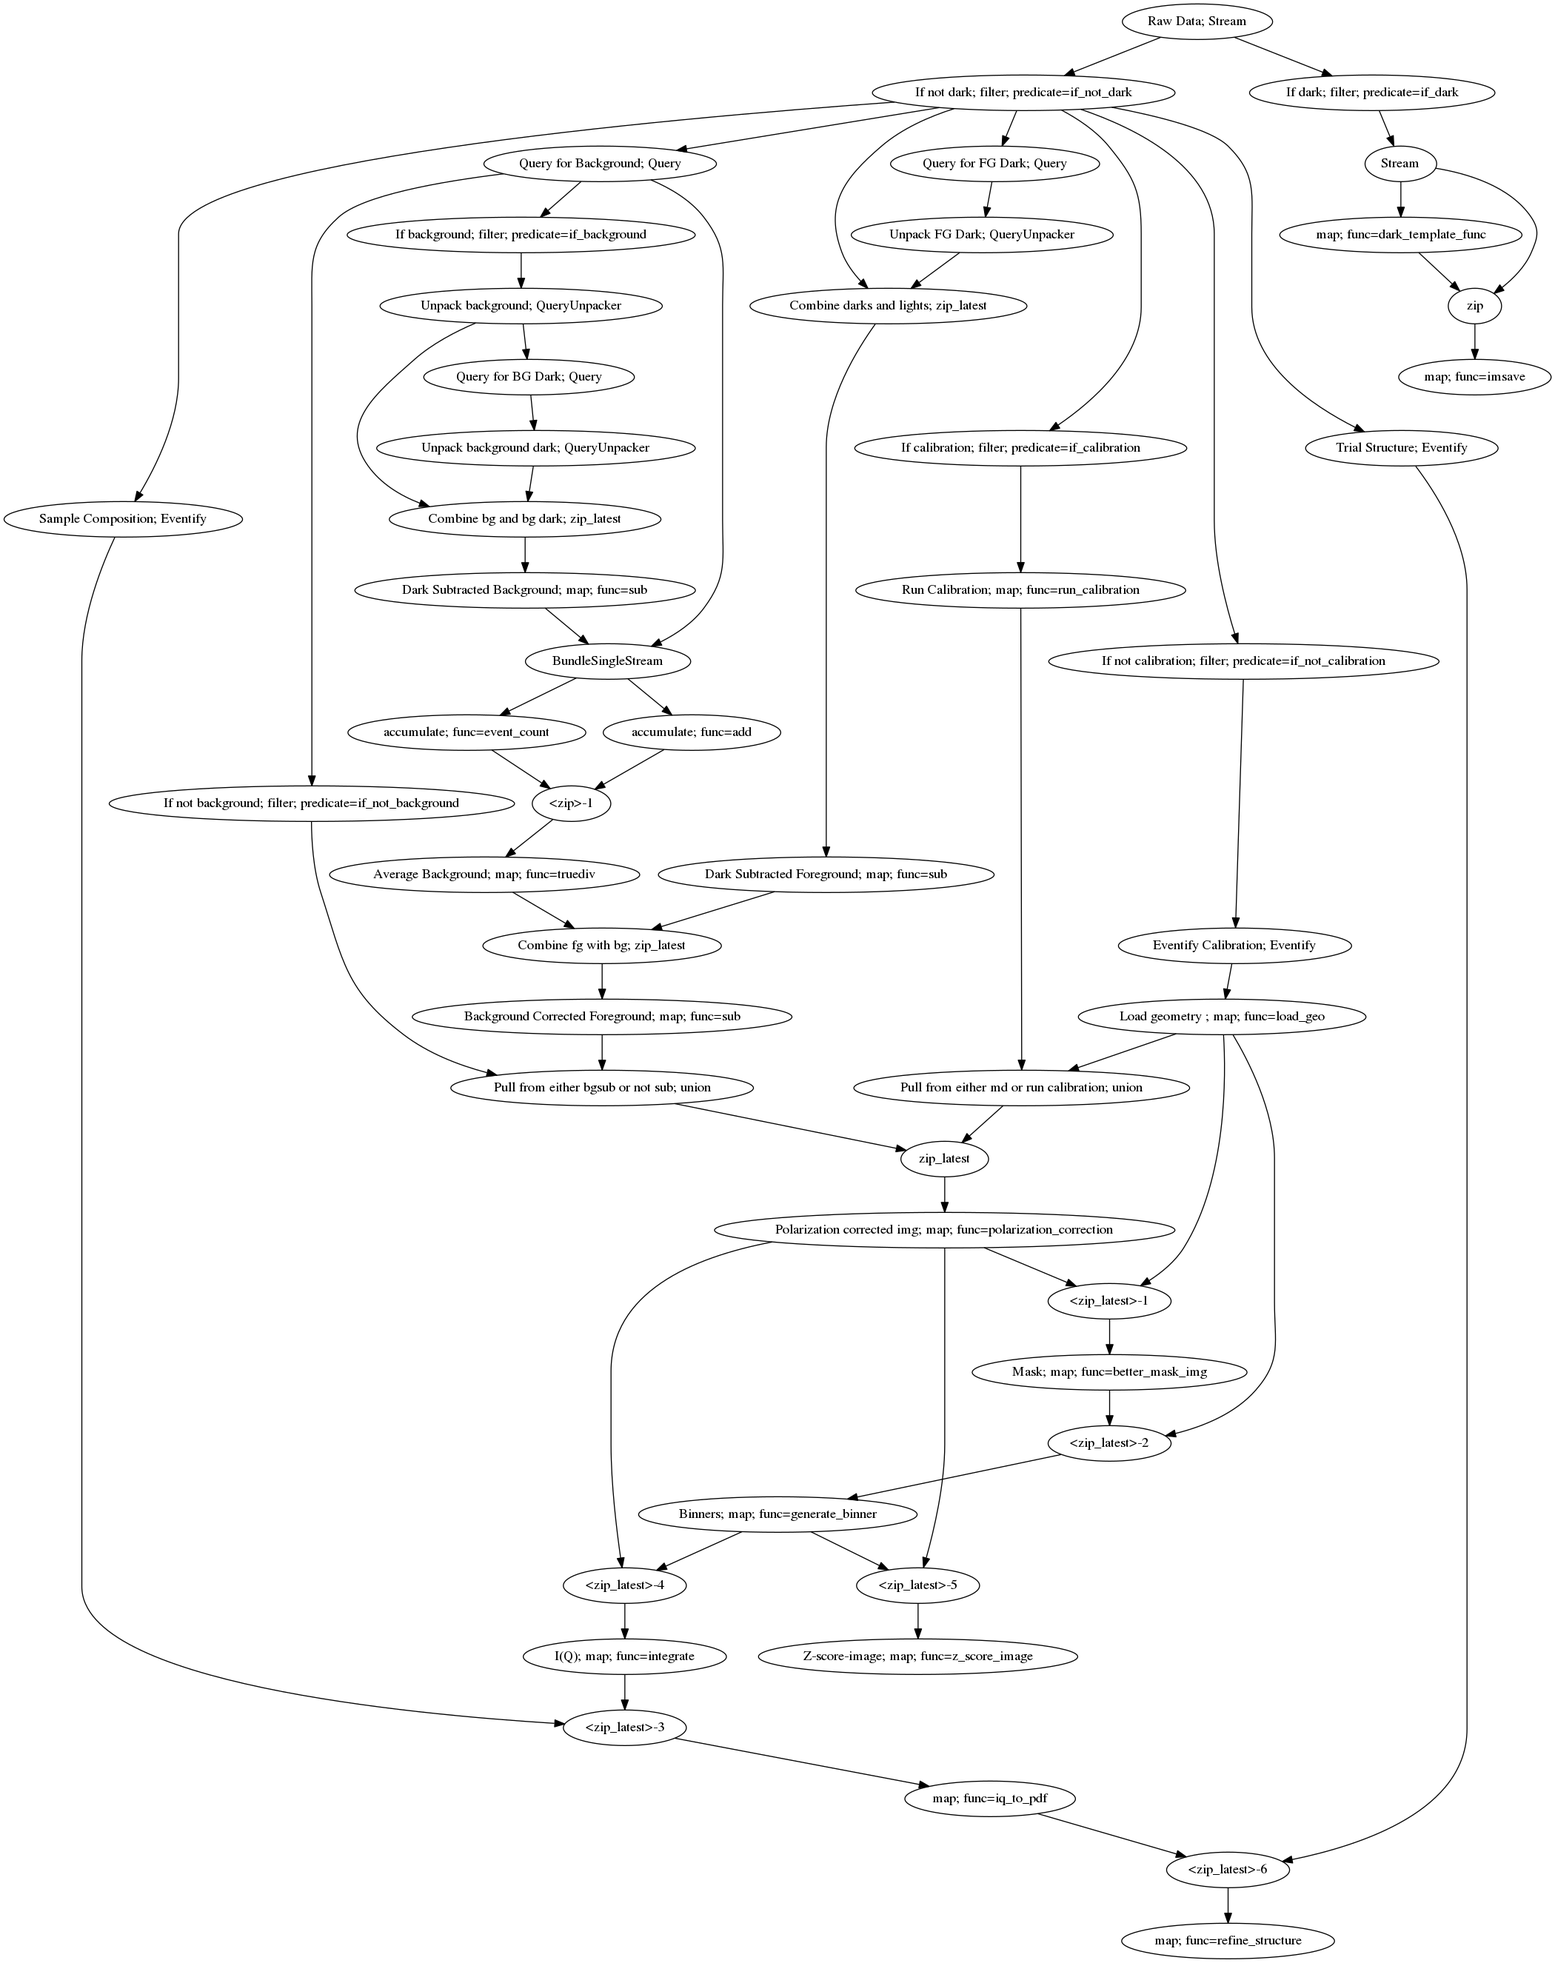
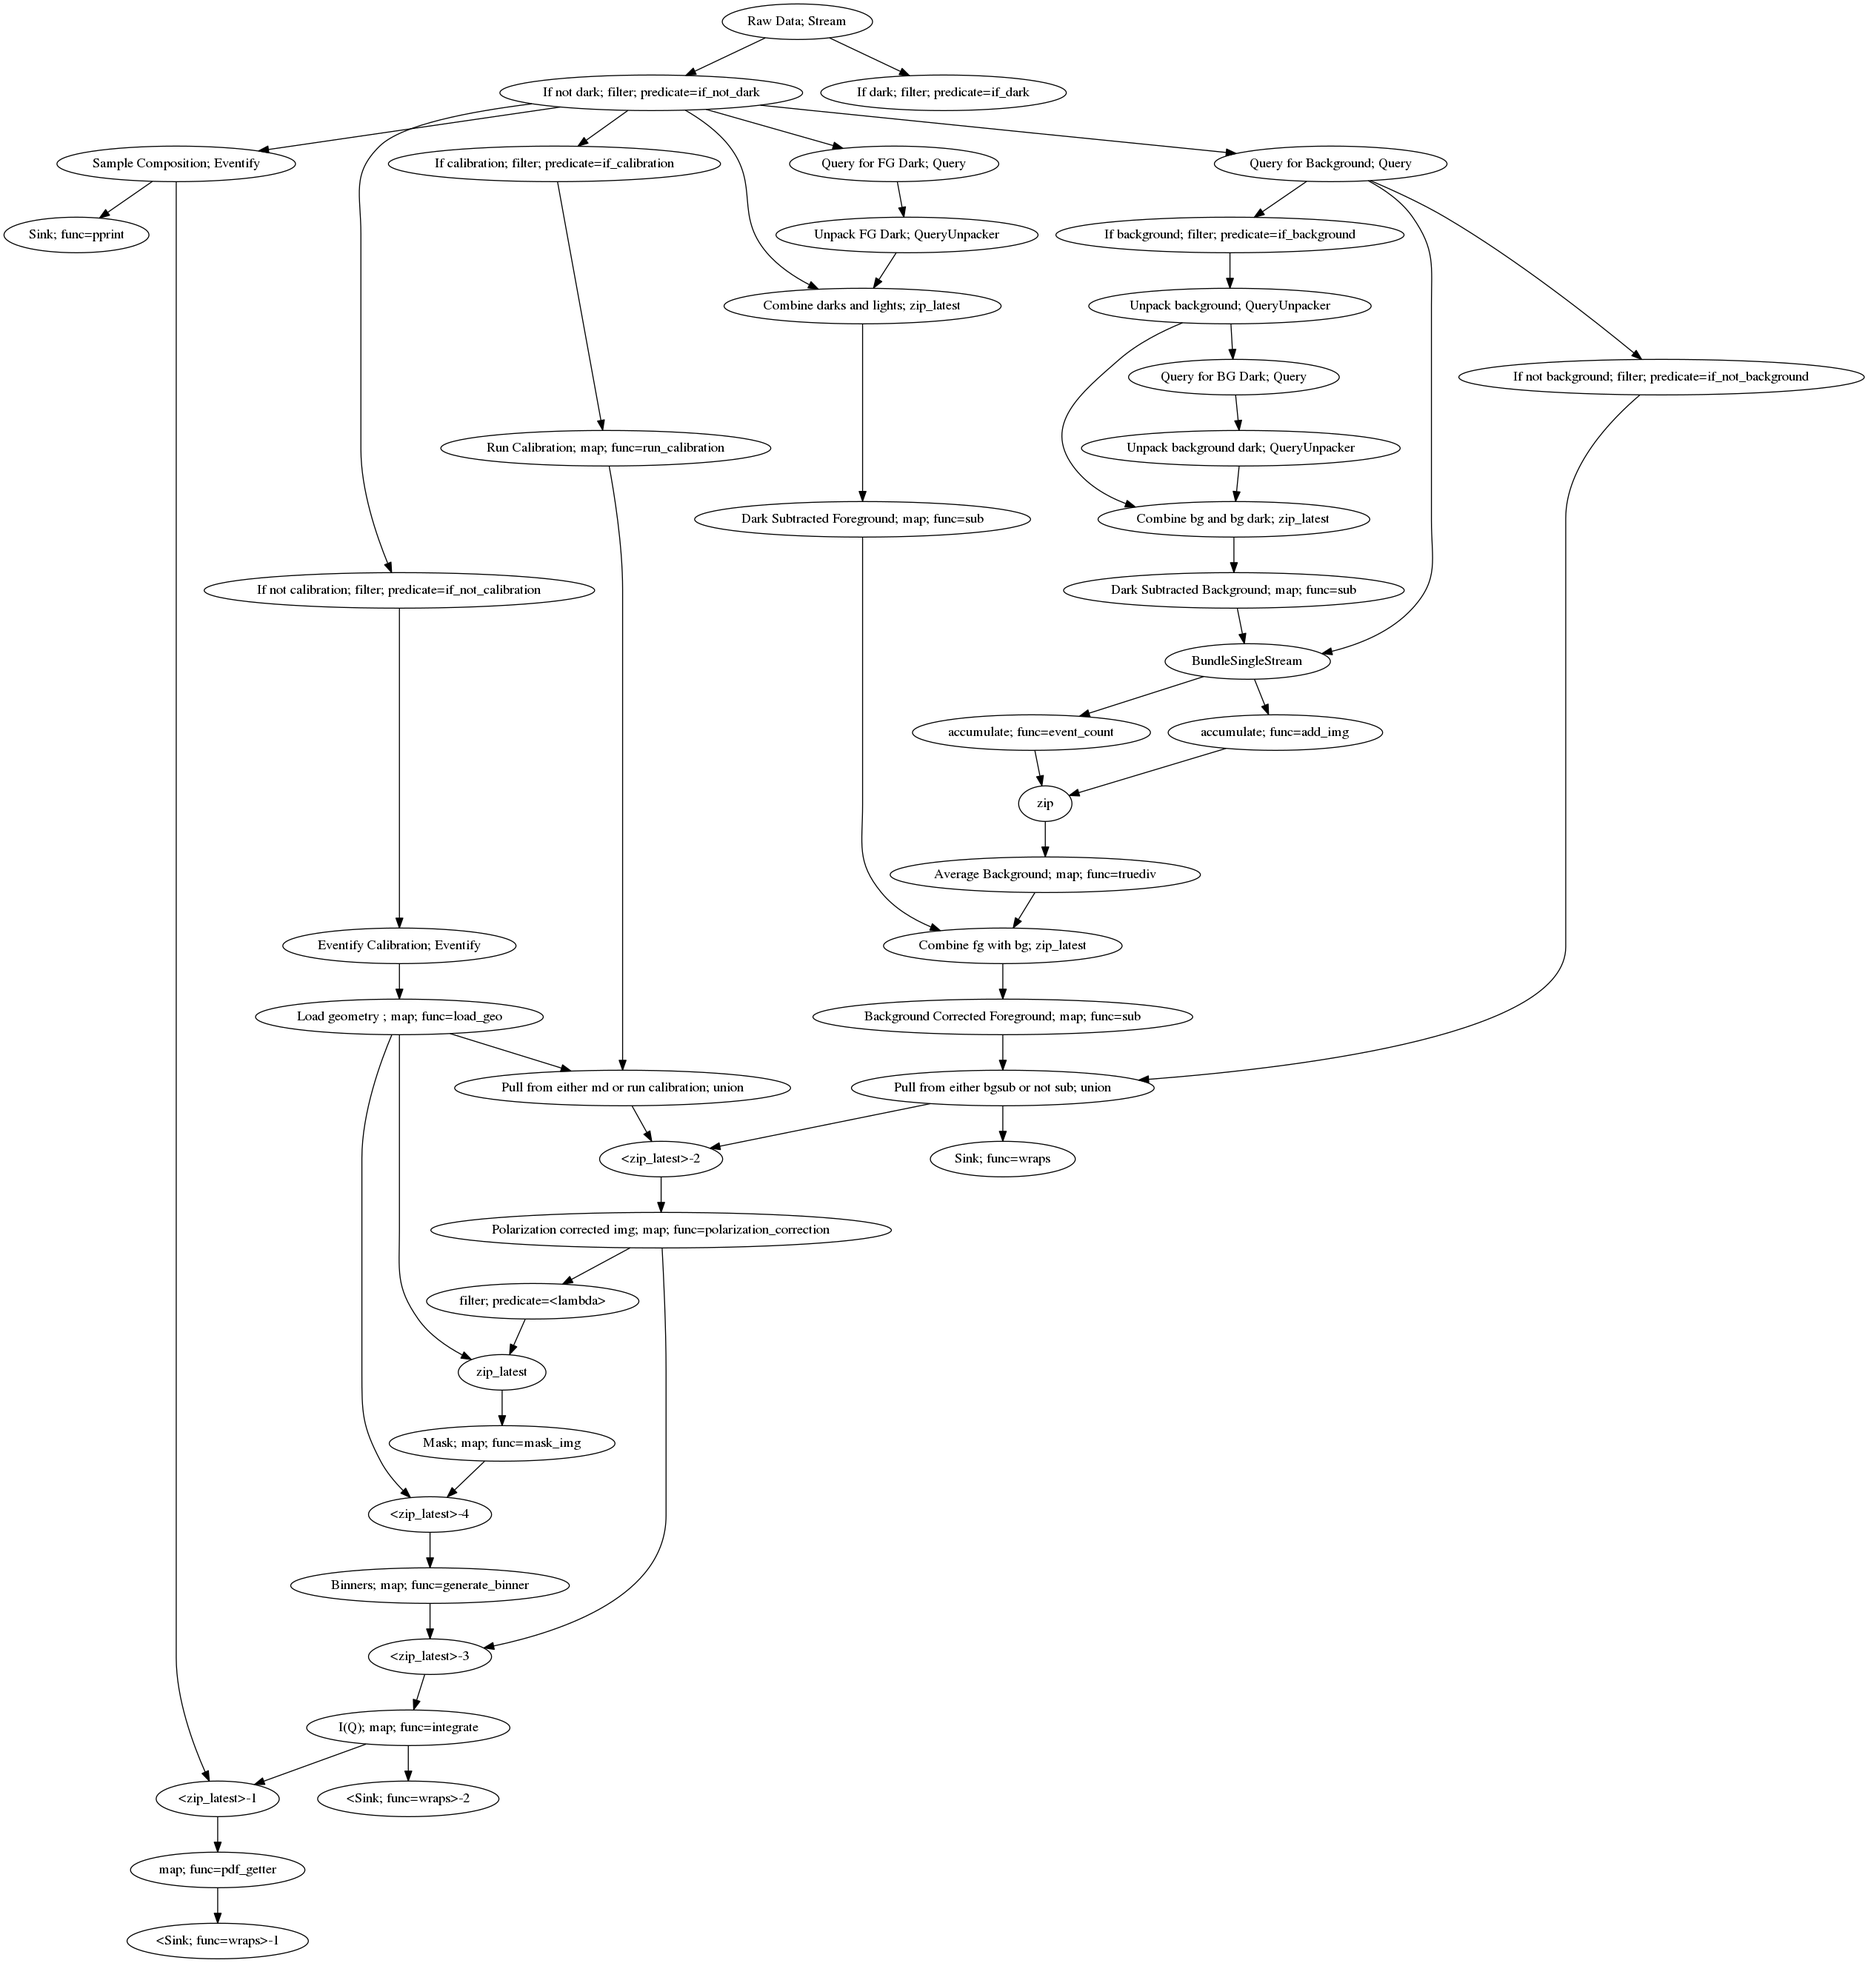
WIP: get pipeline running on multiple headers

diff --git a/xpdan/pipelines/master.py b/xpdan/pipelines/master.py
@@ -140,7 +140,7 @@ def conf_master_pipeline(db):
                     )
 
     # combine the fg with the summed_bg
-    fg_bg = es.zip_latest(dark_sub_fg, ave_bg, emit_on=dark_sub_fg,
+    fg_bg = es.zip_latest(dark_sub_fg, ave_bg,
                           stream_name='Combine fg with bg')
 
     # subtract the background images
@@ -162,6 +162,7 @@ def conf_master_pipeline(db):
     # union of background and not background branch
     foreground_stream = fg_sub_bg.union(if_not_background_stream)
     foreground_stream.stream_name = 'Pull from either bgsub or not sub'
+    # foreground_stream.sink(star(LiveImage('img')))
 
     # CALIBRATION PROCESSING
 
@@ -183,12 +184,14 @@ def conf_master_pipeline(db):
                                           input_info=None,
                                           document_name='start',
                                           stream_name='If not calibration')
+    if_not_calibration_stream.sink(pprint)
     cal_md_stream = es.Eventify(if_not_calibration_stream,
                                 start_key='calibration_md',
                                 output_info=[('calibration_md',
                                               {'dtype': 'dict',
                                                'source': 'workflow'})],
                                 stream_name='Eventify Calibration')
+    # cal_md_stream.sink(pprint)
     cal_stream = es.map(load_geo, cal_md_stream,
                         input_info={'cal_params': 'calibration_md'},
                         output_info=[('geo',
@@ -202,31 +205,34 @@ def conf_master_pipeline(db):
     loaded_calibration_stream = cal_stream.union(run_calibration_stream)
     loaded_calibration_stream.stream_name = 'Pull from either md or ' \
                                             'run calibration'
+    # loaded_calibration_stream.sink(pprint)
+    # foreground_stream.sink(pprint)
 
     # send calibration and corrected images to main workflow
     # polarization correction
     # SPLIT INTO TWO NODES
-    # foreground_stream.sink(star(LiveImage('img')))
+    zlfl = es.zip_latest(foreground_stream, loaded_calibration_stream)
+    # zlfl.sink(pprint)
     pfactor = .99
     p_corrected_stream = es.map(polarization_correction,
-                                es.zip_latest(foreground_stream,
-                                              loaded_calibration_stream),
+                                zlfl,
                                 input_info={'img': ('img', 0),
                                             'geo': ('geo', 1)},
                                 output_info=[('img', {'dtype': 'array',
                                                       'source': 'testing'})],
                                 polarization_factor=pfactor,
                                 stream_name='Polarization corrected img')
-
+    # p_corrected_stream.sink(pprint)
     # generate masks
-    # """
+    zlfc = es.zip_latest(es.filter(lambda x: x == 1,
+                                   p_corrected_stream,
+                                   input_info={0: 'seq_num'},
+                                   full_event=True),
+                         cal_stream)
+    # zlfc.sink(pprint)
     mask_kwargs = {'bs_width': None}
     mask_stream = es.map(mask_img,
-                         es.zip_latest(es.filter(lambda x: x == 1,
-                                                 p_corrected_stream,
-                                                 input_info={0: 'seq_num'},
-                                                 full_event=True),
-                                       cal_stream),
+                         zlfc,
                          input_info={'img': ('img', 0),
                                      'geo': ('geo', 1)},
                          output_info=[('mask', {'dtype': 'array',
@@ -237,27 +243,21 @@ def conf_master_pipeline(db):
     # mask_stream.sink(star(LiveImage('mask')))
 
     # generate binner stream
+    zlmc = es.zip_latest(mask_stream, cal_stream)
+    # zlmc.sink(pprint)
     binner_stream = es.map(generate_binner,
-                           es.zip_latest(mask_stream, cal_stream),
+                           zlmc,
                            input_info={'geo': ('geo', 1),
                                        'mask': ('mask', 0)},
                            output_info=[('binner', {'dtype': 'function',
                                                     'source': 'testing'})],
                            img_shape=(2048, 2048),
                            stream_name='Binners')
-    """
-    binner_stream = es.map(generate_binner,
-                           cal_stream,
-                           input_info={'geo': ('geo', 0)},
-                           output_info=[('binner', {'dtype': 'function',
-                                                    'source': 'testing'})],
-                           img_shape=(2048, 2048),
-                           stream_name='Binners')
-    binner_stream.sink(pprint)
-    """
-
+    # binner_stream.sink(pprint)
+    zlpb = es.zip_latest(p_corrected_stream, binner_stream)
+    # zlpb.sink(pprint)
     iq_stream = es.map(integrate,
-                       es.zip_latest(p_corrected_stream, binner_stream),
+                       zlpb,
                        input_info={'img': ('img', 0),
                                    'binner': ('binner', 1)},
                        output_info=[('q', {'dtype': 'array',
@@ -265,8 +265,9 @@ def conf_master_pipeline(db):
                                     ('iq', {'dtype': 'array',
                                             'source': 'testing'})],
                        stream_name='I(Q)')
+
     # iq_stream.sink(pprint)
-    iq_stream.sink(star(LiveWaterfall('q', 'iq')))
+    # iq_stream.sink(star(LiveWaterfall('q', 'iq', units=['Q (A^-1)', 'Arb'])))
 
     def pdf_getter(*args, **kwargs):
         pg = PDFGetter()
@@ -277,7 +278,7 @@ def conf_master_pipeline(db):
                                      output_info=[('composition',
                                                    {'dtype': 'str'})],
                                      stream_name='Sample Composition')
-    composition_stream.sink(pprint)
+    # composition_stream.sink(pprint)
     pdf_stream = es.map(pdf_getter,
                         es.zip_latest(iq_stream, composition_stream),
                         input_info={0: ('q', 0), 1: ('iq', 0),
@@ -285,7 +286,8 @@ def conf_master_pipeline(db):
                         output_info=[('r', {'dtype': 'array'}),
                                      ('pdf', {'dtype': 'array'})],
                         dataformat='QA', qmaxinst=28, qmax=22)
-    pdf_stream.sink(star(LiveWaterfall('r', 'pdf')))
+    # pdf_stream.sink(pprint)
+    # pdf_stream.sink(star(LiveWaterfall('r', 'pdf', units=['r (A)', 'G(r) A^-3'])))
     """
     # z-score the data
     z_score_stream = es.map(z_score_image,
@@ -311,6 +313,5 @@ def conf_master_pipeline(db):
     structure = es.map(refine_structure, es.zip_latest(pdf_stream,
                                                        trial_structure_stream))
 
-    # source.visualize()
     # """
     return source

diff --git a/examples/run_master.py b/examples/run_master.py
@@ -20,13 +20,29 @@ mds = MDSRO(d)
 fs = RegistryRO(d)
 fs.register_handler('AD_TIFF', AreaDetectorTiffHandler)
 db = Broker(mds=mds, reg=fs)
-
 source = conf_master_pipeline(db)
-
+# source.visualize()
+seen = False
 for e in db[-1].stream(fill=True):
     if e[0] == 'event':
         plt.pause(.5)
-    # print(e)
-    source.emit(e)
+        if not seen:
+            seen = True
+            source.emit(e)
+    else:
+        source.emit(e)
+
+print('start second run ----------------------------------------------------')
+
+seen = False
+for e in db[-1].stream(fill=True):
+    if e[0] == 'event':
+        plt.pause(.5)
+        if not seen:
+            seen = True
+            source.emit(e)
+    else:
+        source.emit(e)
 
 plt.show()
+plt.close("all")
